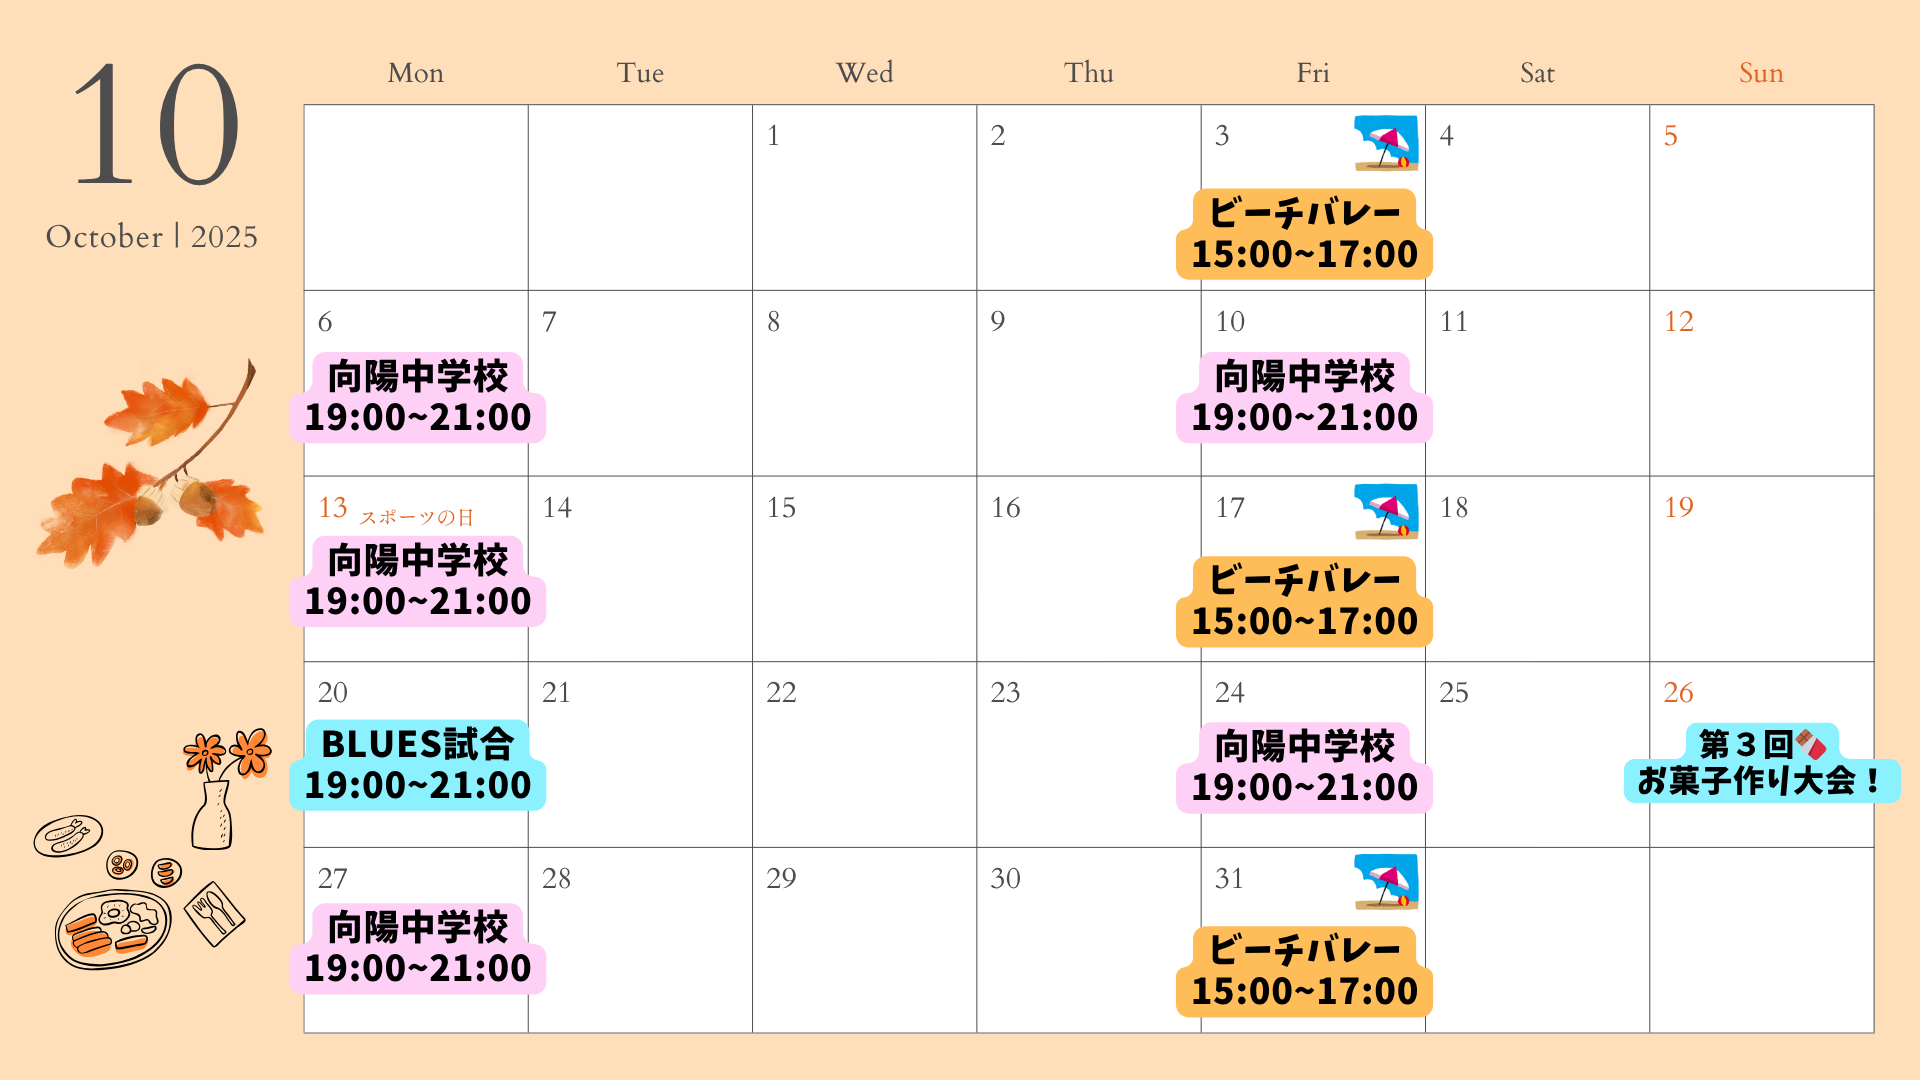
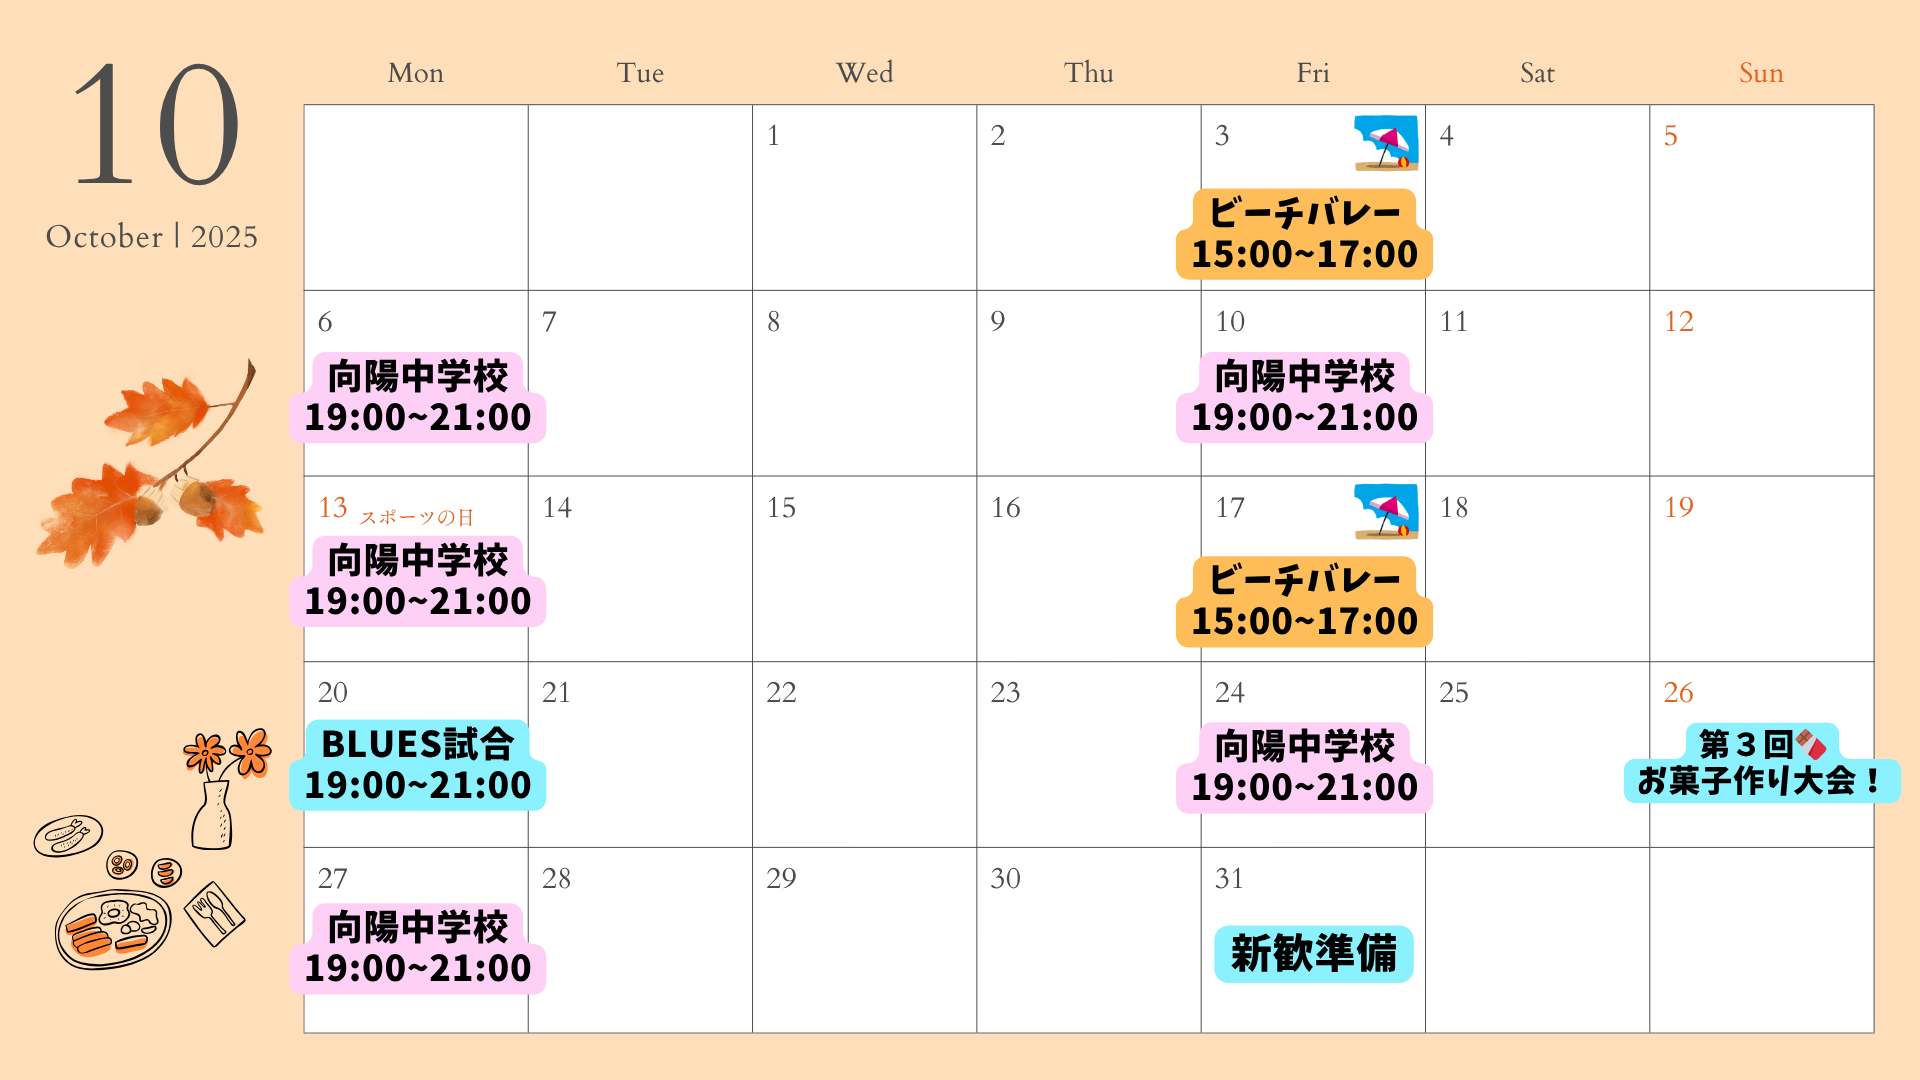
“色々改変9”

Changed region(s): [[0.5938, 0.7944, 0.75, 0.9472]]

diff --git a/templates/index.html b/templates/index.html
@@ -261,7 +261,7 @@
         .footer-section {
             background-color: #ffecfd;
             text-align: center;
-            padding: 40px 20px; /* 上下余白調整 */
+            padding: 30px 20px; /* 上下余白調整 */
             margin-top: 100px; /* カレンダーとの距離を広げる */
             transform: translateY(50px); /* フッター全体を下にずらす */
         }
@@ -269,7 +269,7 @@
         .footer-section .footer-icon {
             width: 300px; /* 適宜調整 */
             height: auto;
-            margin-bottom: 40px;
+            margin-bottom: 30px;
         }
 
         .footer-section .footer-sitemap {
@@ -277,7 +277,7 @@
             color: #000;
             font-size: 30px;
             font-family: 'Courier New', Courier, monospace;
-            margin-bottom: 70px;
+            margin-bottom: 40px;
             text-decoration: none;
         }
 
@@ -288,8 +288,8 @@
         .footer-section .footer-note {
             color: #333;
             font-size: 14px;
-            margin-bottom: 10px;
-            line-height: 1.5;
+            margin-bottom: 0px;
+            line-height: 1;
         }
 
         .footer-section .footer-copy {
